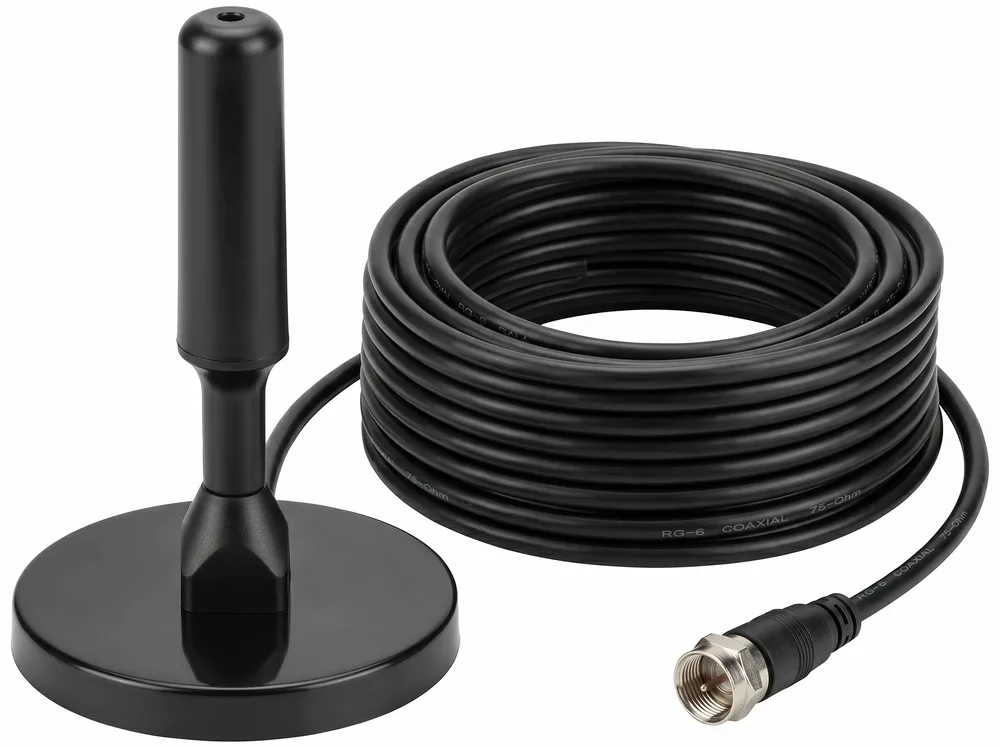
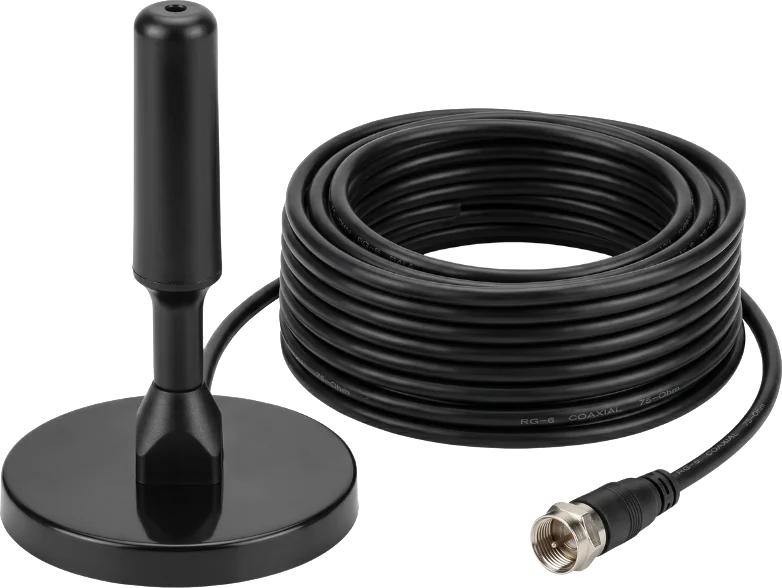
Produto sem fundo com destaque 3D dourado
- Fundo branco removido via flood fill (preserva brilhos metalicos do conector)
- Halo radial dourado atras do produto + sombra de profundidade (drop-shadow duplo)
- Levitacao sutil com delays alternados nos tiles da galeria
- Oferta com a mesma tratativa, sem o tile branco

diff --git a/src/app/globals.css b/src/app/globals.css
@@ -246,12 +246,45 @@
     signal-glitch 4.8s steps(1, end) 2.8s infinite;
 }
 
+/* ===== Destaque 3D do produto (fotos sem fundo) ===== */
+
+/* Brilho dourado + sombra de profundidade: o produto "salta" da página */
+.product-pop {
+  filter: drop-shadow(0 0 22px oklch(0.83 0.165 85 / 0.35))
+    drop-shadow(0 20px 30px rgb(0 0 0 / 0.6));
+}
+
+/* Halo radial dourado atrás do produto */
+.product-halo {
+  background: radial-gradient(
+    50% 50% at 50% 55%,
+    oklch(0.83 0.165 85 / 0.26) 0%,
+    oklch(0.83 0.165 85 / 0.07) 45%,
+    transparent 72%
+  );
+}
+
+/* Levitação sutil */
+@keyframes float-soft {
+  from {
+    transform: translateY(3px);
+  }
+  to {
+    transform: translateY(-7px);
+  }
+}
+
+.float-soft {
+  animation: float-soft 3.6s ease-in-out var(--float-d, 0s) infinite alternate;
+}
+
 @media (prefers-reduced-motion: reduce) {
   .tv-static,
   .glitch-bar,
   .cta-pulse,
   .hero-word,
-  .hero-word.glitch-signal {
+  .hero-word.glitch-signal,
+  .float-soft {
     animation: none;
   }
   .hero-glint::after {

diff --git a/src/components/sections/product.tsx b/src/components/sections/product.tsx
@@ -124,23 +124,25 @@ export function Product() {
           </figcaption>
         </figure>
 
-        {/* Fotos de estúdio: produto em detalhe */}
+        {/* Fotos do produto sem fundo: halo dourado + levitação 3D */}
         <div className="mt-4 grid gap-4 sm:grid-cols-3">
-          {gallery.map(({ src, alt, label, caption }) => (
+          {gallery.map(({ src, alt, label, caption }, i) => (
             <figure
               key={label}
-              className="overflow-hidden rounded-2xl border border-white/8 bg-white"
+              className="overflow-hidden rounded-2xl border border-gold/15 bg-night-soft/40 transition-colors hover:border-gold/35"
             >
               <div className="relative aspect-[4/3]">
+                <div aria-hidden className="product-halo absolute inset-0" />
                 <Image
                   src={src}
                   alt={alt}
                   fill
                   sizes="(max-width: 640px) 100vw, 384px"
-                  className="object-contain p-4"
+                  className="product-pop float-soft object-contain p-7"
+                  style={{ "--float-d": `${i * 0.7}s` } as React.CSSProperties}
                 />
               </div>
-              <figcaption className="border-t border-night/10 bg-night px-5 py-4">
+              <figcaption className="border-t border-white/8 px-5 py-4">
                 <p className="headline text-lg text-gold">{label}</p>
                 <p className="text-sm text-muted-foreground">{caption}</p>
               </figcaption>

diff --git a/src/components/sections/offer.tsx b/src/components/sections/offer.tsx
@@ -39,14 +39,15 @@ export function Offer() {
 
         <Card className="mt-10 border-gold/25 bg-card/90 shadow-[0_0_80px_-20px] shadow-gold/20">
           <CardContent className="p-6 sm:p-10">
-            <div className="mx-auto mb-8 w-full max-w-xs overflow-hidden rounded-2xl bg-white">
+            <div className="relative mx-auto mb-6 w-full max-w-xs">
+              <div aria-hidden className="product-halo absolute -inset-6" />
               <div className="relative aspect-square">
                 <Image
                   src="/images/produto-estudio.webp"
                   alt="Antena Digital HDTV 3.5 DBI com base magnética e cabo de 5 metros"
                   fill
                   sizes="320px"
-                  className="object-contain p-4"
+                  className="product-pop float-soft object-contain p-3"
                 />
               </div>
             </div>